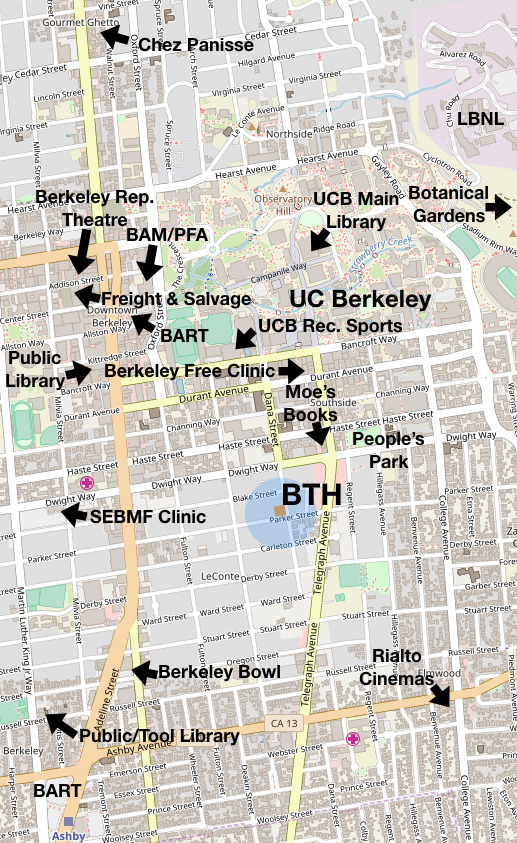
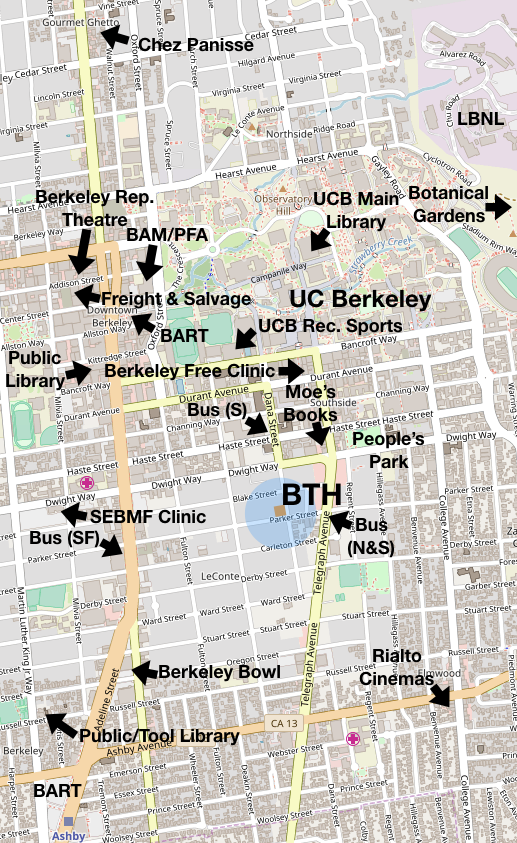
Added 2 photos. Added bus stops to map. Lengthened temporary display of images. Revised some text. Added margins to h4 paragraphs.

Changed region(s): [[0.6499, 0.586, 0.7737, 0.6785], [0.0619, 0.6168, 0.2476, 0.6785], [0.3404, 0.4626, 0.5261, 0.5243]]

diff --git a/index.html b/index.html
@@ -19,7 +19,7 @@
   <body>
 
     <section id="question" class="frame initial">
-      <p class="down-15 h1">After you’re 55,<br>what can you do?</p>
+      <p class="down-15 h1">Life after 55:<br>What can it offer?</p>
       <p class="down-10">
         <span class="btn-lg btn-info btn-pulsing">OK, tell me …</span>
       </p>
@@ -28,10 +28,10 @@
     <section id="answer" class="frame later bg-image-bldg">
       <p class="back btn-sm btn-info" title="Back to start">▲<br>Back</p>
       <p class="down-15 on-image">
-        <span class="reminder h4">After 55, what can you do?</span><br>
+        <span class="reminder h4">Life after 55: What can it offer?</span><br>
         <span class="h1">The sky’s the limit!</span><br>
         <span class="h4">
-          (<strong>If</strong> you live at
+          (<strong>At least if</strong> you live at
           <strong>Berkeley Town House</strong>!)
         </span>
       </p>
@@ -53,7 +53,7 @@
         </p>
         <p>
           <span id="life-more" class="btn-sm btn-info h4">More …</span>
-          <span class="d-inline h4">Lead a bustling life</span>
+          <span class="d-inline h4">Lead a bustling individual and social life</span>
         </p>
         <p>
           <span id="coop-more" class="btn-sm btn-info h4">More …</span>
@@ -90,7 +90,7 @@
       <p class="down-5 reminder h4">At BTH, you can …</p>
       <p class="h1">Make fascinating friends.</p>
       <p class="h3">Look at what people at BTH have recently done in …</p>
-      <p class="list h4">
+      <p class="down-5 list h4">
         Human services:
         <span class="toggle-child btn-sm btn-info h5">Show examples …</span>
       </p>
@@ -100,7 +100,7 @@
         <li>Give home-bound persons daily phone calls</li>
         <li>Offer volunteer income-tax assistance to seniors</li>
         <li>Provide legal advice to immigrants</li>
-        <li>Tutor in a public school</li>
+        <li>Tutor in public schools</li>
       </ul>
       <p class="list h4">Literature and art:
         <span class="toggle-child btn-sm btn-info h5">Show examples …</span>
@@ -157,16 +157,16 @@
         <li>Protest government policies</li>
         <li>Travel to Antarctica</li>
       </ul>
-      <p><span class="btn-lg btn-info btn-pulsing">Next BTH perk …</span></p>
+      <p class="down-5"><span class="btn-lg btn-info btn-pulsing">Next BTH perk …</span></p>
     </section>
 
     <section id="life-list" class="frame later text-on-image">
       <p class="back btn-sm btn-info" title="Back to BTH’s secret">▲<br>Back</p>
       <p class="reminder h4">At BTH, you can …</p>
-      <p class="h1">Lead a bustling life.</p>
+      <p class="h1">Lead a bustling<br>individual and social life.</p>
       <p class="h4">
-        BTH residents, in committees and individually,
-        organize such activities as:
+        At BTH, you know all your neighbors. It’s a real community.
+        Residents, in committees and individually, organize activities like:
       </p>
       <ul class="list">
         <li>Art exhibits
@@ -181,6 +181,7 @@
         </li>
         <li>Charity donation drives</li>
         <li>Collage making</li>
+        <li>Conversation groups</li>
         <li>Crafts</li>
         <li>Excursions to local events</li>
         <li>Exercise workouts</li>
@@ -391,6 +392,7 @@
         <li>New built-in 2-level microwave oven
           <span id="btn-apt-micro" class="btn-list btn-info">pic</span>
         </li>
+        <li>Space for 30" wide range/oven</li>
         <li>Extra-deep unitary kitchen sink
           <span id="btn-apt-sink" class="btn-list btn-info">pic</span>
         </li>
@@ -441,7 +443,7 @@
         <li>Building-standard textured ceiling plaster contains 1–3% asbestos, paint-encapsulated.</li>
         <li>Drywall partition paint finish contains patched scars and discoloration.</li>
         <li>Floor finishes contain imperfections.</li>
-        <li>Range and oven 24" wide in space that allows 27".
+        <li>Current range/oven 24" wide (space allows 30").
       </ul>
       <p class="h4">Terms:</p>
       <ul class="list">
@@ -483,8 +485,14 @@
         <li>Tool Lending Library
           <span id="btn-walk-tool" class="btn-list btn-info">pic</span>
         </li>
+        <li>Book stores
+          <span id="btn-walk-moes" class="btn-list btn-info">pic</span>
+        </li>
         <li>2 BART Stations
           <span id="btn-walk-bart" class="btn-list btn-info">pic</span>
+        </li>
+        <li>Bus stops to downtown Berkeley, Oakland, and San Francisco
+          <span id="btn-walk-bus" class="btn-list btn-info">pic</span>
         </li>
         <li>Health care facilities
           <span id="btn-walk-health" class="btn-list btn-info">pic</span>

diff --git a/scripts.js b/scripts.js
@@ -190,12 +190,13 @@ window.onload = function() {
     ['btn-life-party', 'life-list', 'party.jpg'],
     ['btn-life-rock', 'life-list', 'rock.jpg'],
     ['btn-life-talk', 'life-list', 'talk.jpg'],
+    ['btn-walk-academic', 'walk-list', 'academic.jpg'],
     ['btn-walk-bam', 'walk-list', 'bam.jpg'],
     ['btn-walk-bart', 'walk-list', 'bart.png'],
     ['btn-walk-bot', 'walk-list', 'bot.jpg'],
     ['btn-walk-bowl', 'walk-list', 'bowl.jpg'],
     ['btn-walk-bpl', 'walk-list', 'bpl.jpg'],
-    ['btn-walk-academic', 'walk-list', 'academic.jpg'],
+    ['btn-walk-bus', 'walk-list', 'bus.jpg'],
     ['btn-walk-cafe', 'walk-list', 'cafe.jpg'],
     ['btn-walk-cheap', 'walk-list', 'cheap.jpg'],
     ['btn-walk-chez', 'walk-list', 'chez.jpg'],
@@ -203,6 +204,7 @@ window.onload = function() {
     ['btn-walk-freight', 'walk-list', 'freight.jpg'],
     ['btn-walk-health', 'walk-list', 'health.jpg'],
     ['btn-walk-lbnl', 'walk-list', 'lbnl.jpg'],
+    ['btn-walk-moes', 'walk-list', 'moes.jpg'],
     ['btn-walk-nature', 'walk-list', 'nature.jpg'],
     ['btn-walk-park', 'walk-list', 'park.jpg'],
     ['btn-walk-pfa', 'walk-list', 'pfa.jpg'],
@@ -215,7 +217,7 @@ window.onload = function() {
     document.querySelector('#' + specs[0]).onclick = function() {
       document.querySelector('#images').style.backgroundImage
         = 'url(resources/images/' + specs[2] + ')';
-      yieldSectionTemp('#' + specs[1], '#images', 0.1, 2000);
+      yieldSectionTemp('#' + specs[1], '#images', 0.1, 3000);
     };
   });
   document.querySelectorAll('#members-list > p.list > span.toggle-child')

diff --git a/styles.css b/styles.css
@@ -205,18 +205,19 @@ img {
   opacity: 0;
 }
 
-.list {
-  margin-left: 7vw;
-  margin-right: 5vw;
-  text-align: left;
-}
-
 .li-minimum {
   font-size: 0.5rem;
 }
 
 .li-proportional {
   font-size: 1.8vw;
+}
+
+.list,
+p.h4 {
+  margin-left: 7vw;
+  margin-right: 5vw;
+  text-align: left;
 }
 
 .list-plain {
